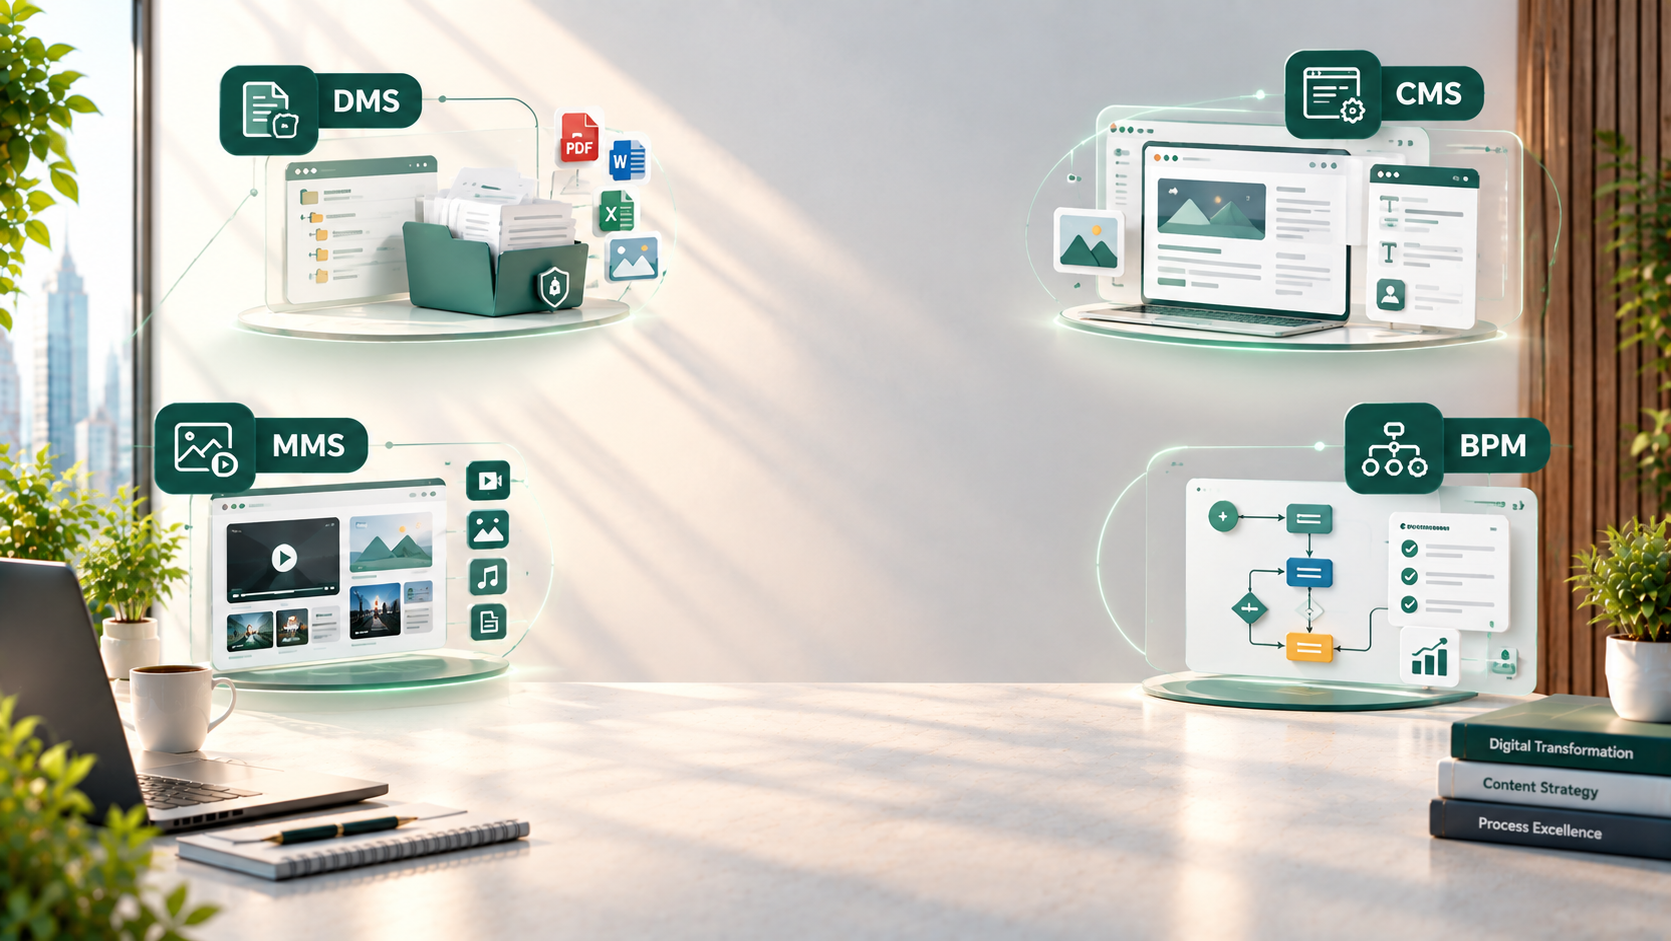
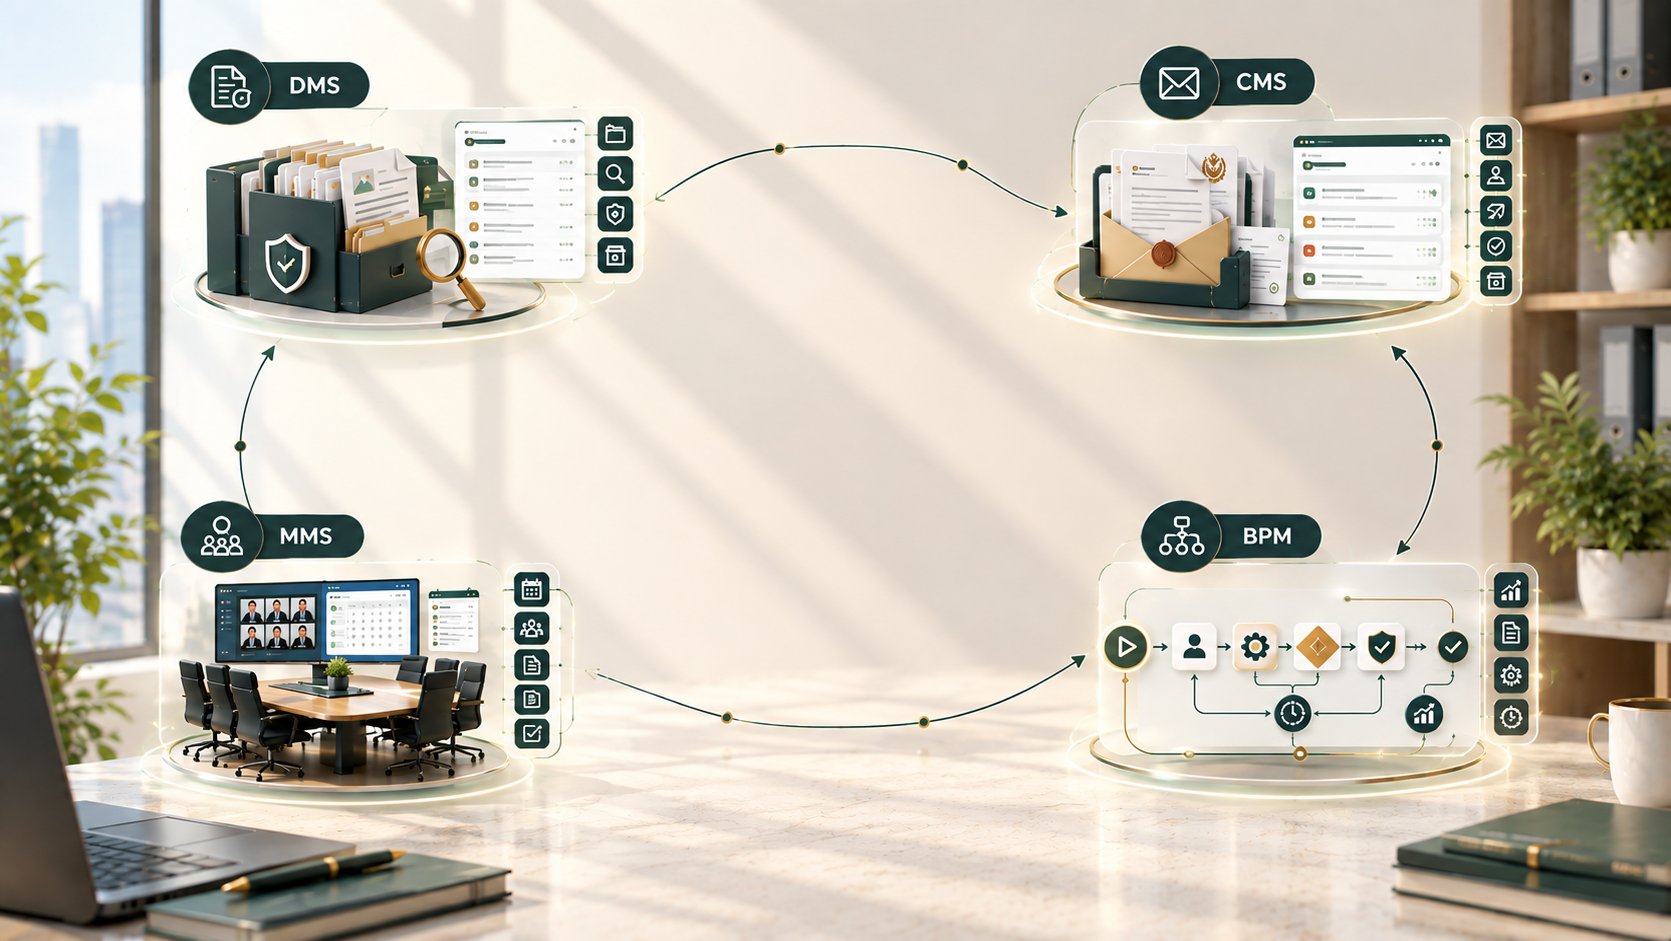
fix: edit images, add scroll to top when change route

diff --git a/src/app/layouts/MainLayout.tsx b/src/app/layouts/MainLayout.tsx
@@ -2,7 +2,7 @@ import { useEffect, useState } from "react";
 import { useTranslation } from "react-i18next";
 import { useAppContext } from "../../context/AppContext";
 
-import { Outlet } from "react-router-dom";
+import { Outlet, useLocation } from "react-router-dom";
 import Header from "../../components/navbar/Header";
 import Footer from "../../components/footer/Footer";
 import CtaBanner from "../../components/CTA/CTABannar";
@@ -12,6 +12,11 @@ import { ArrowUp } from "lucide-react";
 const MainLayout = () => {
   const { i18n } = useTranslation();
   const { lang, setLang, mood } = useAppContext();
+  const { pathname } = useLocation();
+
+  useEffect(() => {
+    window.scrollTo({ top: 0, left: 0 });
+  }, [pathname]);
 
   const defaultLanguage = (localStorage.getItem("language") ?? "en") as
     | "ar"

diff --git a/src/components/hero/Hero.tsx b/src/components/hero/Hero.tsx
@@ -177,7 +177,7 @@ const Hero = ({
           {(primaryCta || secondaryCta) && (
             <motion.div
               variants={item}
-              className={`flex flex-wrap items-center ${visual ? "justify-start" : "justify-center mt-2 "} gap-4`}
+              className={`flex flex-wrap items-center ${visual ? "md:justify-start justify-center" : "justify-center mt-2 "} gap-4`}
             >
               {primaryCta && (
                 <Button
